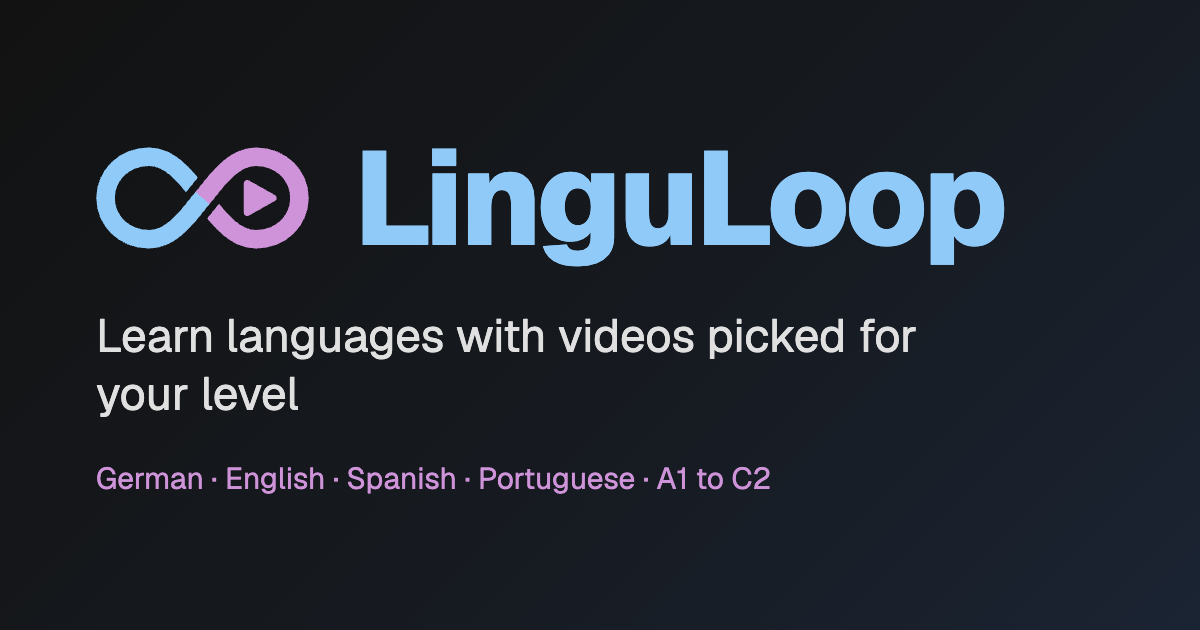
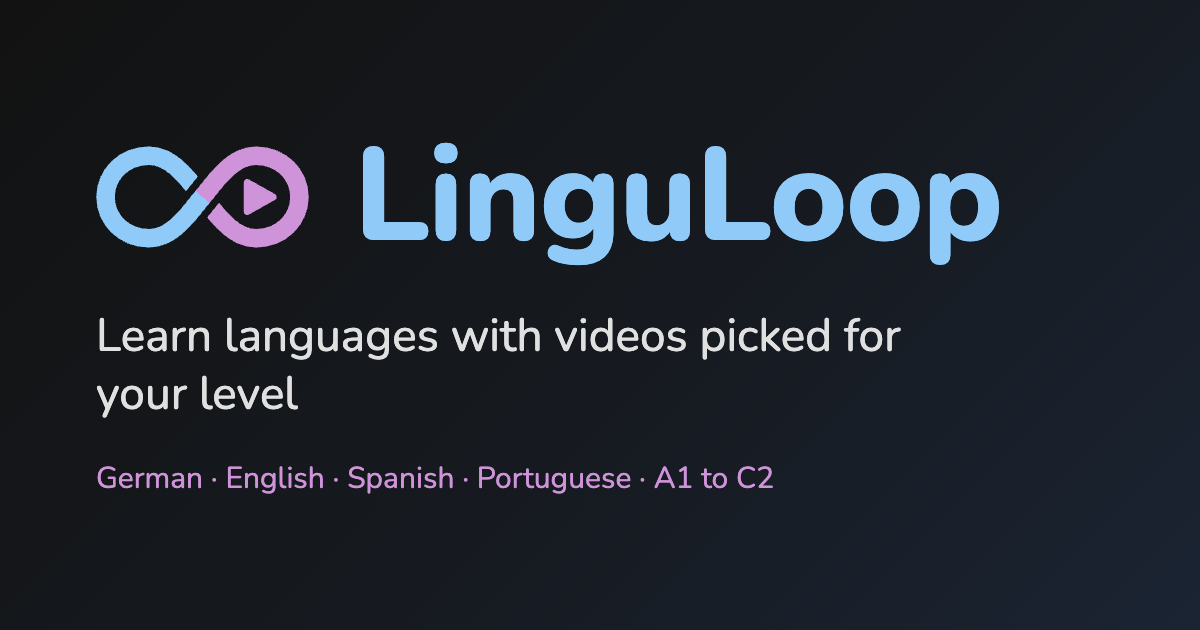
Switch to Nunito and realign the header name with the tagline
Nunito's rounded terminals match the logo mark's round stroke ends; used
site-wide (name, headings, UI, link preview image). Drops the unused
Geist Mono. The logo now sits inline in the h1, so the header row aligns
on the name's text baseline again.

diff --git a/src/app/layout.tsx b/src/app/layout.tsx
@@ -1,5 +1,5 @@
 import type { Metadata } from "next";
-import { Geist, Geist_Mono } from "next/font/google";
+import { Nunito } from "next/font/google";
 import Script from "next/script";
 import { Analytics } from "@vercel/analytics/next";
 import "./globals.css";
@@ -9,14 +9,11 @@ import {
   ADSENSE_CLIENT, SITE_DESCRIPTION, SITE_NAME, SITE_TAGLINE, SITE_URL,
 } from "@/lib/site";
 
-const geistSans = Geist({
-  variable: "--font-geist-sans",
-  subsets: ["latin"],
-});
-
-const geistMono = Geist_Mono({
-  variable: "--font-geist-mono",
-  subsets: ["latin"],
+// Rounded terminals that match the logo mark's round stroke ends. latin-ext covers accented
+// characters in video titles; its files only download when such characters appear.
+const nunito = Nunito({
+  variable: "--font-sans",
+  subsets: ["latin", "latin-ext"],
 });
 
 const TITLE = `${SITE_NAME}: ${SITE_TAGLINE}`;
@@ -50,7 +47,7 @@ export default function RootLayout({
   children: React.ReactNode;
 }>) {
   return (
-    <html lang="en" className={`${geistSans.variable} ${geistMono.variable}`}>
+    <html lang="en" className={nunito.variable}>
       <body className="site-body">
         <ThemeRegistry>
           <main className="site-main">{children}</main>

diff --git a/src/app/page.tsx b/src/app/page.tsx
@@ -225,11 +225,9 @@ export default function Home() {
         sx={{ display: 'flex', alignItems: 'center', gap: 2, mb: { xs: 2, md: 3 } }}
       >
         <Box sx={{ display: 'flex', flexWrap: 'wrap', alignItems: 'baseline', columnGap: 1.5, rowGap: 0.25, minWidth: 0, flex: 1 }}>
-          <Typography
-            component="h1"
-            sx={{ display: 'flex', alignItems: 'center', gap: 1, fontSize: '1.5rem', fontWeight: 800, lineHeight: 1.2, color: 'primary.main' }}
-          >
-            <LogoMark height={24} />
+          {/* Block (not flex) so the row's baseline is the name's text baseline, shared with the tagline. */}
+          <Typography component="h1" sx={{ fontSize: '1.5rem', fontWeight: 800, lineHeight: 1.2, color: 'primary.main' }}>
+            <LogoMark height={24} style={{ display: 'inline-block', verticalAlign: '-0.2em', marginRight: 8 }} />
             {SITE_NAME}
           </Typography>
           <Typography variant="body2" color="text.secondary">{SITE_TAGLINE}</Typography>

diff --git a/src/components/LogoMark.tsx b/src/components/LogoMark.tsx
@@ -3,7 +3,7 @@
  * Decorative: always rendered next to the visible "LinguLoop" name, so it is hidden from
  * screen readers. Same artwork as src/app/icon.svg (which adds the dark tile).
  */
-export default function LogoMark({ height = 24 }: { height?: number }) {
+export default function LogoMark({ height = 24, style }: { height?: number; style?: React.CSSProperties }) {
   return (
     <svg
       viewBox="0 0 56 32"
@@ -14,7 +14,7 @@ export default function LogoMark({ height = 24 }: { height?: number }) {
       strokeLinecap="round"
       aria-hidden="true"
       focusable="false"
-      style={{ display: 'block', flexShrink: 0 }}
+      style={{ display: 'block', flexShrink: 0, ...style }}
     >
       {/* Gap where the lower-left → upper-right strand passes over the other one. Every
           instance draws the same mask, so a repeated id on one page is harmless. */}

diff --git a/src/app/globals.css b/src/app/globals.css
@@ -24,7 +24,7 @@ html {
 body {
   background: var(--background);
   color: var(--foreground);
-  font-family: var(--font-geist-sans), -apple-system, BlinkMacSystemFont, "Segoe UI", Roboto, Helvetica, Arial, sans-serif;
+  font-family: var(--font-sans), -apple-system, BlinkMacSystemFont, "Segoe UI", Roboto, Helvetica, Arial, sans-serif;
   overflow-x: hidden;
   min-height: 100vh;
 }

diff --git a/src/theme.ts b/src/theme.ts
@@ -15,7 +15,7 @@ const theme = createTheme({
     },
   },
   typography: {
-    fontFamily: 'var(--font-geist-sans), -apple-system, BlinkMacSystemFont, "Segoe UI", Roboto, Helvetica, Arial, sans-serif',
+    fontFamily: 'var(--font-sans), -apple-system, BlinkMacSystemFont, "Segoe UI", Roboto, Helvetica, Arial, sans-serif',
   },
   components: {
     MuiButton: {
